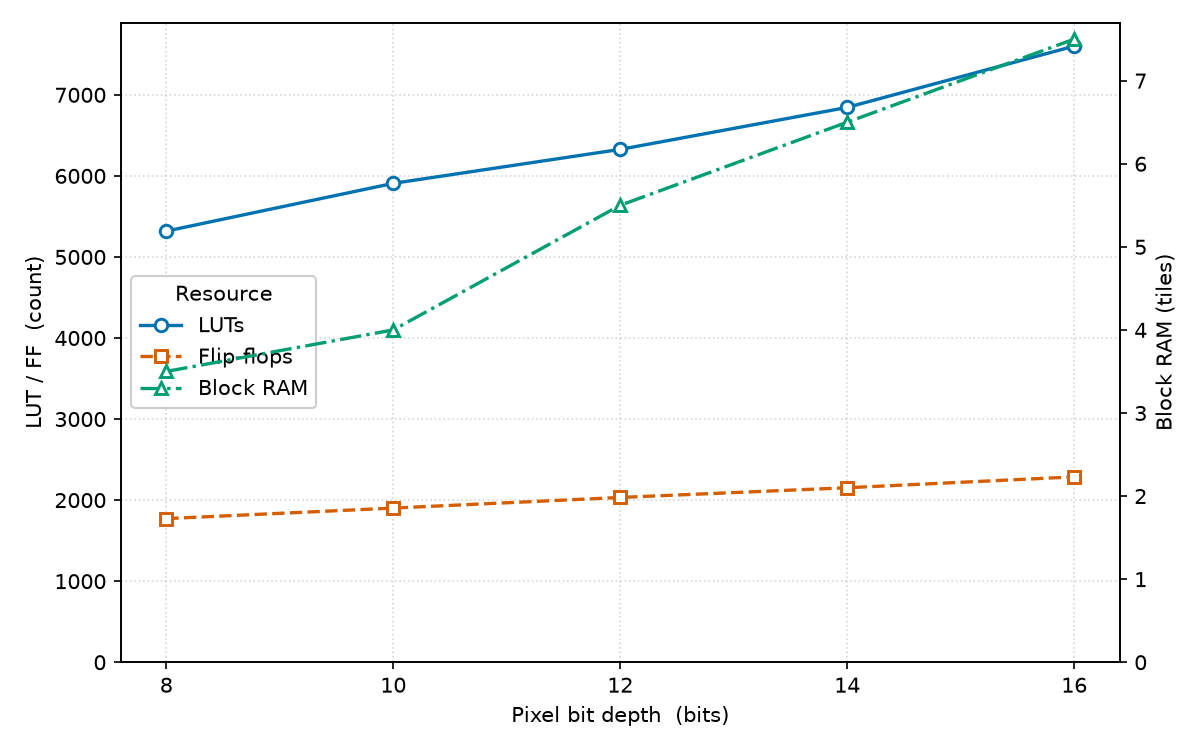
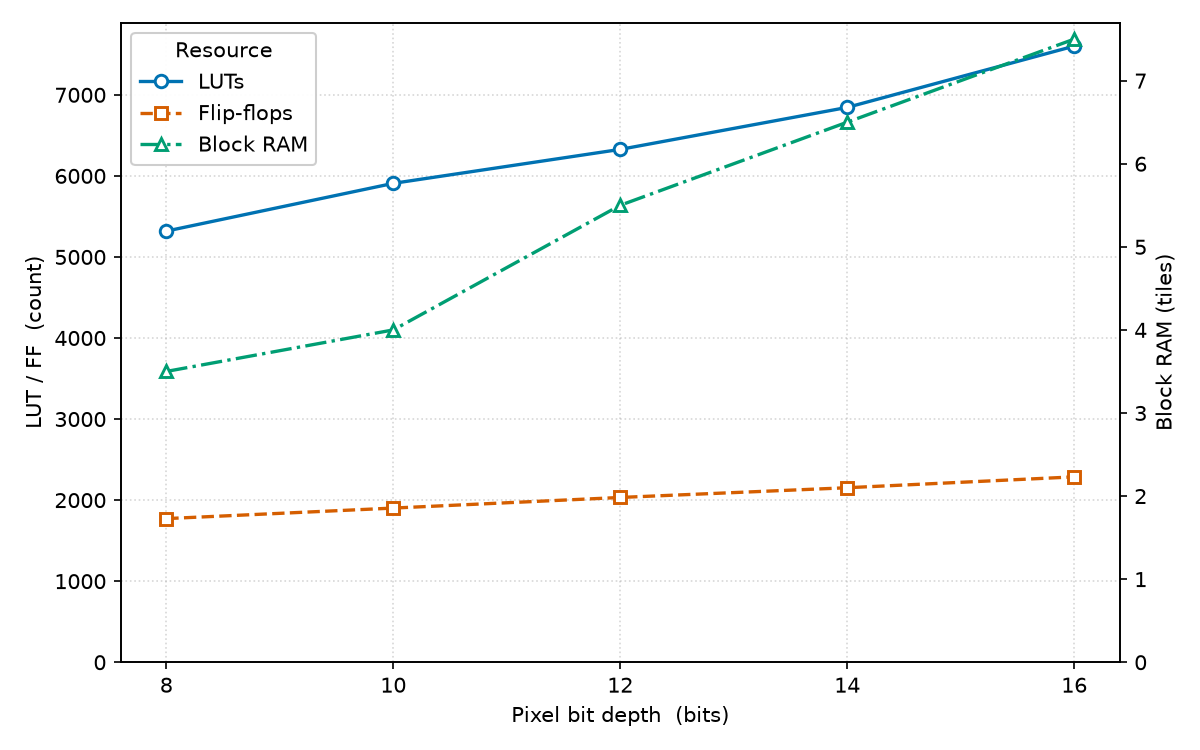
Keep the bit-depth utilization legend off the data

Changed region(s): [[0.0925, 0.368, 0.2775, 0.552], [0.0925, 0.0613, 0.2775, 0.2147], [0.1233, 0.0307, 0.1542, 0.0613]]

diff --git a/Scripts/plot_util.py b/Scripts/plot_util.py
@@ -68,8 +68,10 @@ ax2.set_ylim(bottom=0)
 
 # No in-figure title: the LaTeX float caption supplies it.
 ax1.grid(True, which="major", ls=":", alpha=0.5)
-ax1.legend(handles=[l_lut, l_ff, l_bram], title="Resource", loc="center left",
-           framealpha=0.95)
+# Centre-left covers the low BRAM points of the bit-depth sweep; the upper-left
+# corner is clear there because LUTs start well below the top of the axis.
+ax1.legend(handles=[l_lut, l_ff, l_bram], title="Resource",
+           loc="upper left" if by_bitness else "center left", framealpha=0.95)
 
 plt.tight_layout()
 plt.savefig(out_png, dpi=150)
